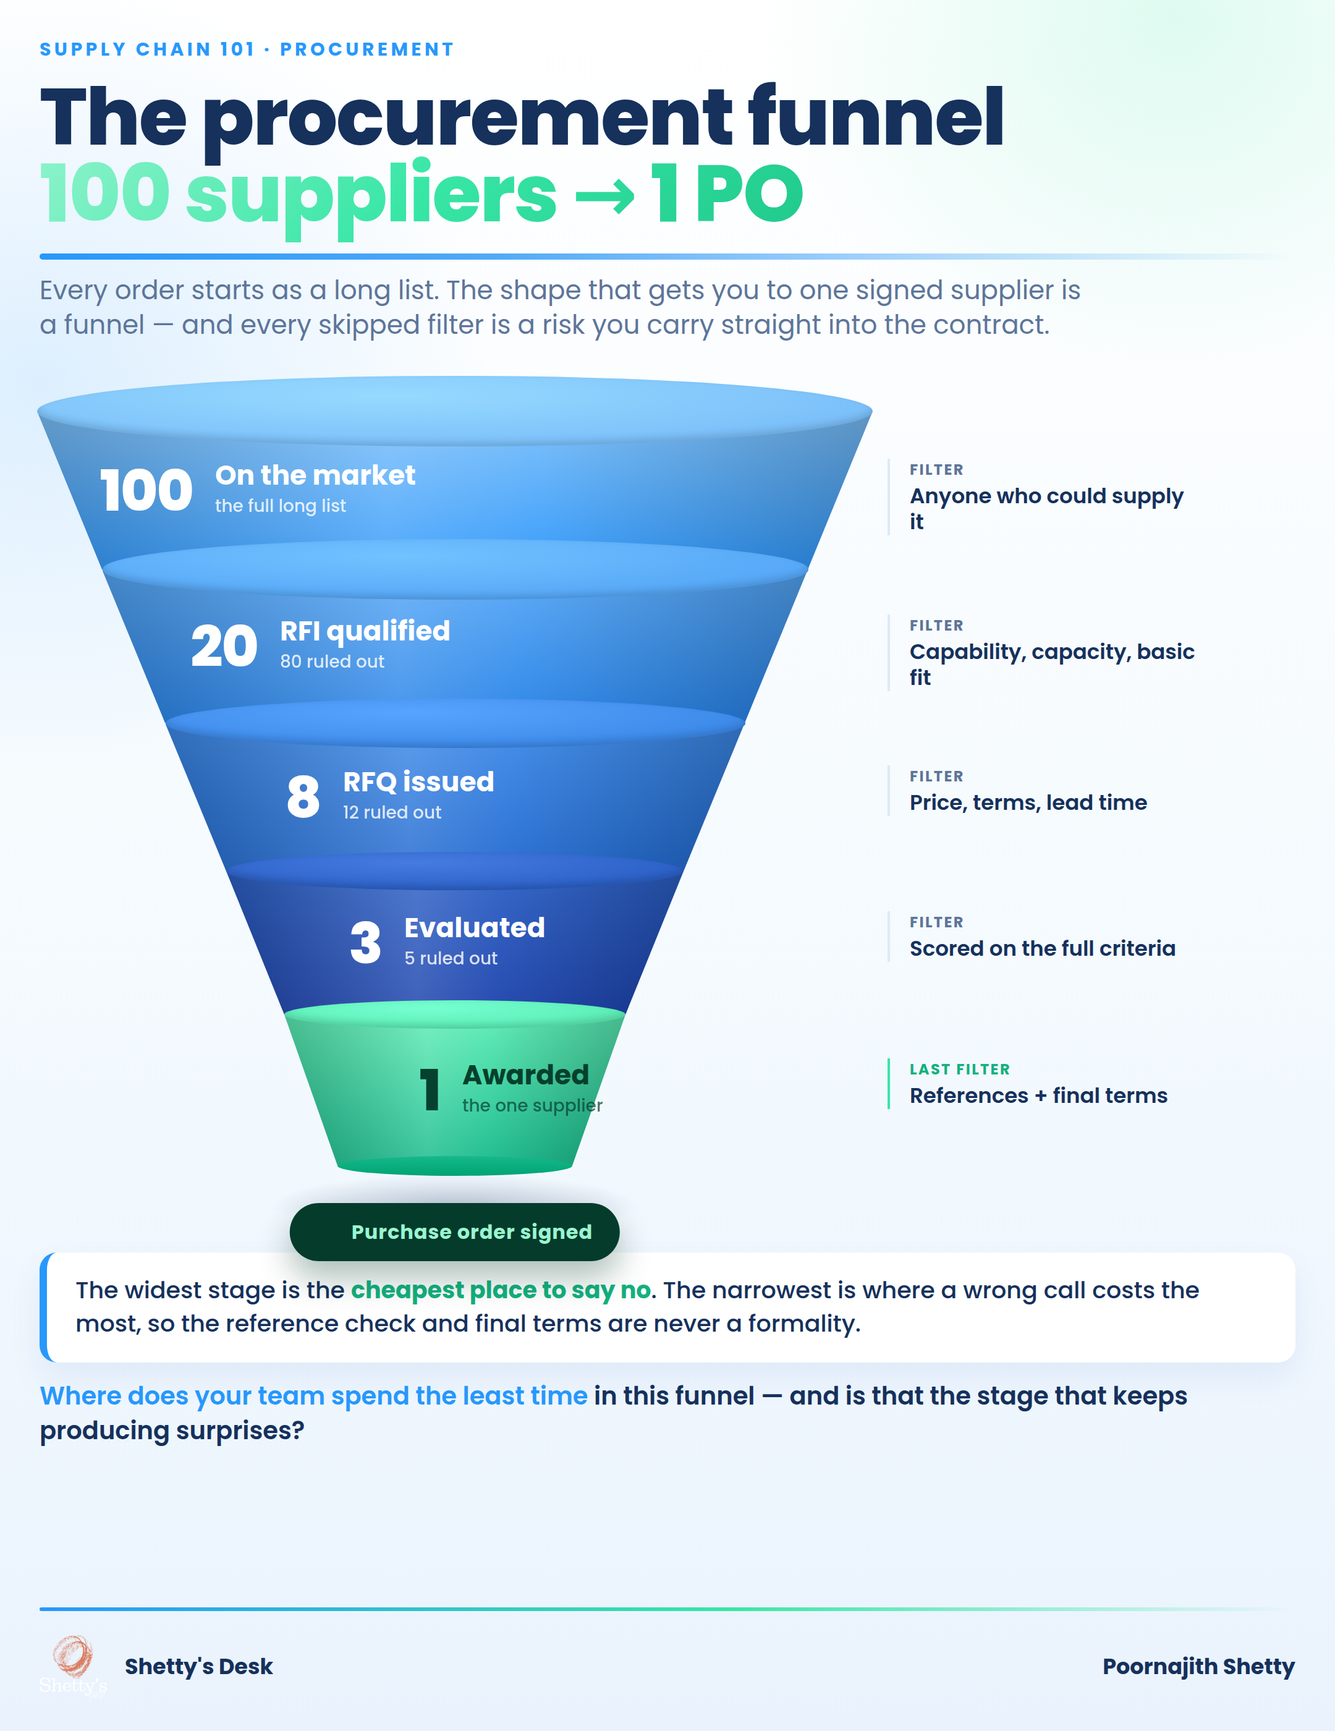
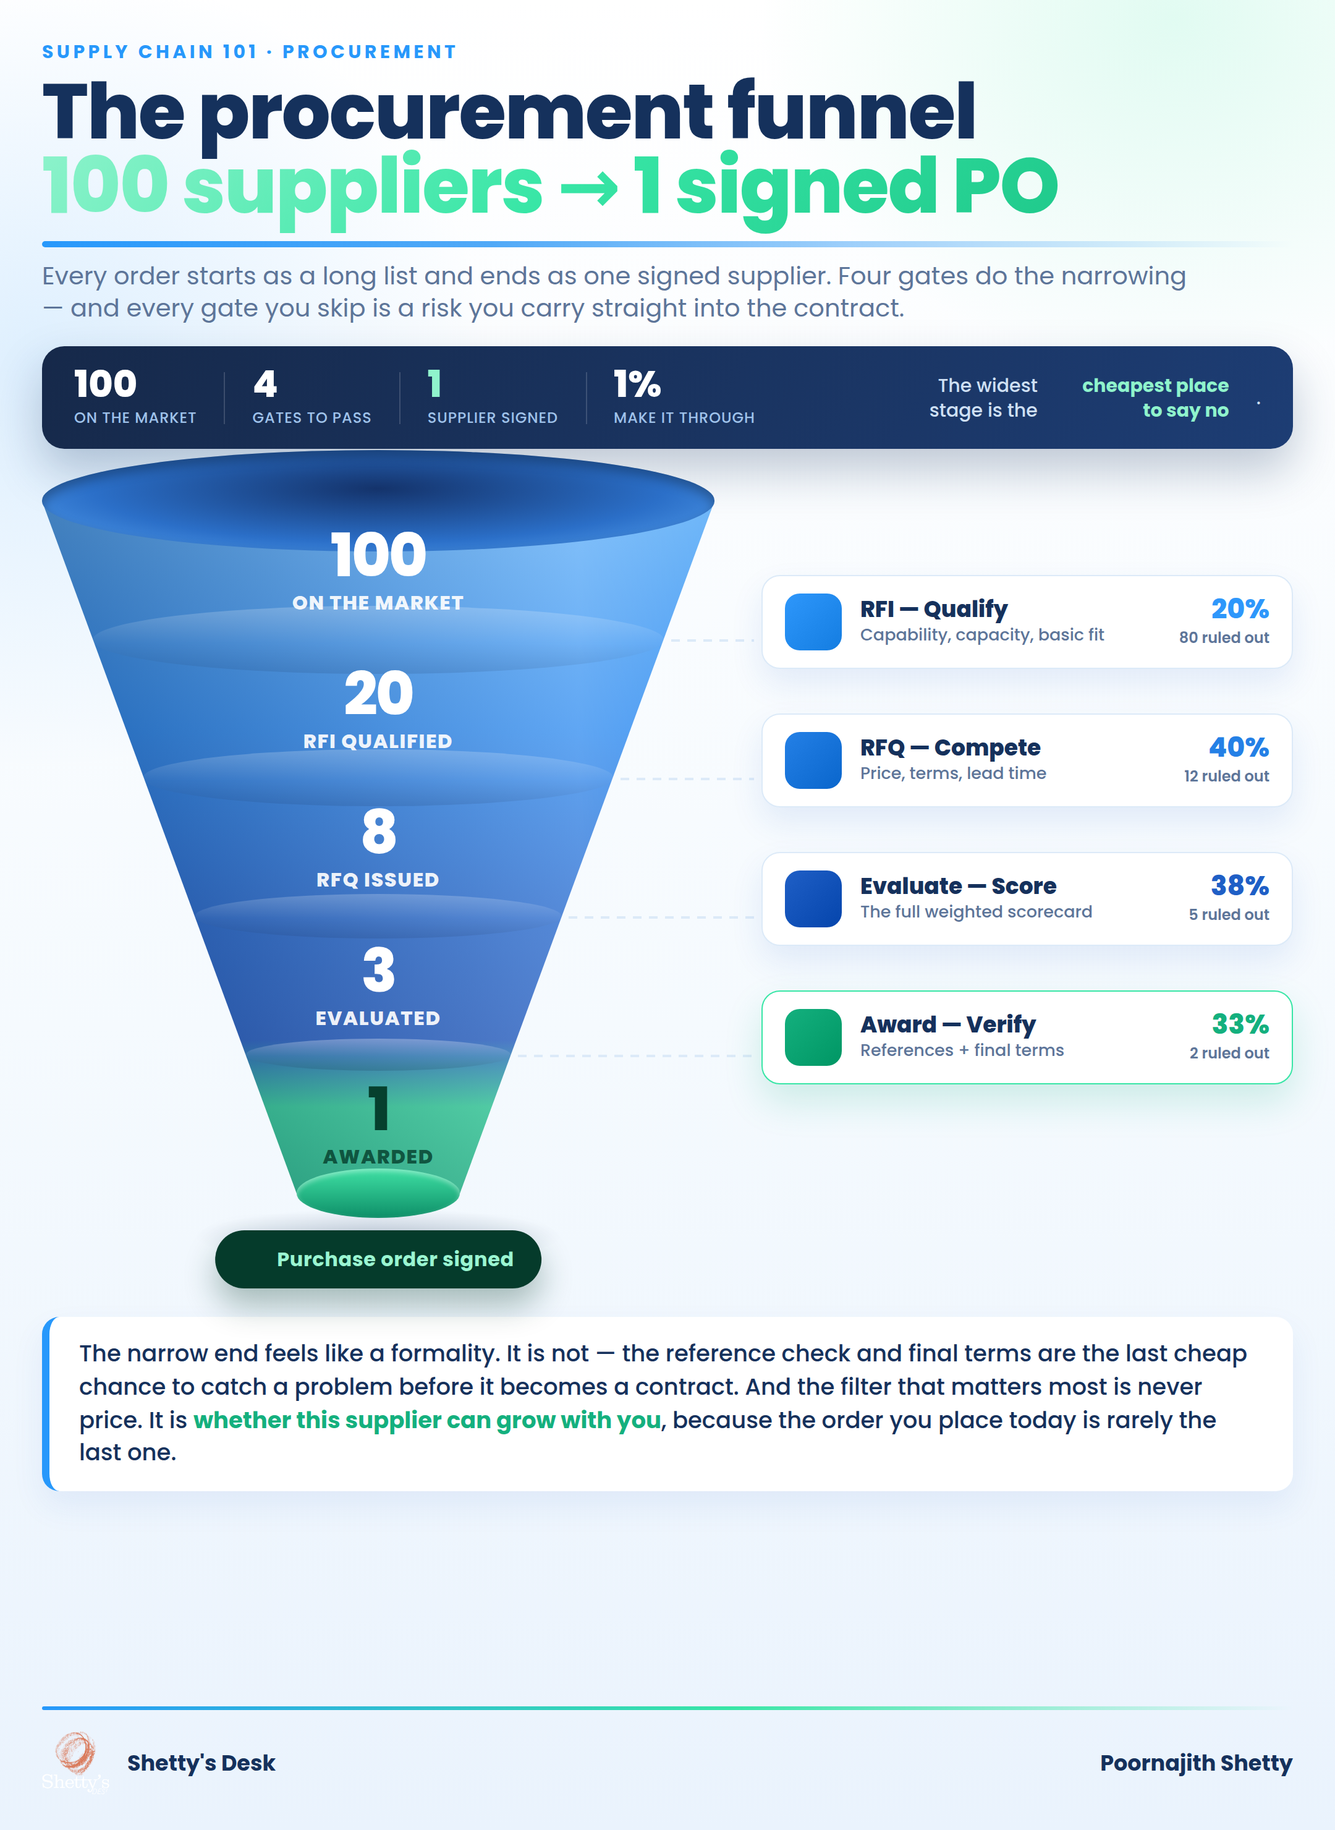
Rebuild 101 Post 2 (procurement funnel) to the 4-layer standard
The earlier pass was subpar — just footer + scaling of a weak template.
Full rebuild: a cohesive single-body 3D funnel (smooth taper, mouth +
eco tip + PO seal) as the hero, a dark stat band (100 / 4 gates / 1 / 1%),
four gate cards between the stages (what each filters + % advance + count
cut), centered number/name spine on the funnel, and the teaching insight.
Information-dense, genuinely 3D, fills the canvas — matched to the
supplier-quote exemplar.

Claude-Session: https://claude.ai/code/session_01QHwTCVSbkRhv54hCup5HwM

diff --git a/infographic-setup/renderer/templates/sc101-procurement-funnel-3d.html b/infographic-setup/renderer/templates/sc101-procurement-funnel-3d.html
@@ -13,65 +13,95 @@
   *{margin:0;padding:0;box-sizing:border-box}
   html,body{width:1080px}
   #card{
-    width:1080px;height:1400px;position:relative;overflow:hidden;
+    width:1080px;height:1480px;position:relative;overflow:hidden;
     font-family:"Poppins",system-ui,sans-serif;color:var(--ink);
     background:
-      radial-gradient(ellipse 52% 34% at 88% 1%, rgba(56,230,166,.16) 0%, transparent 60%),
-      radial-gradient(ellipse 58% 40% at 3% 22%, rgba(39,152,251,.14) 0%, transparent 58%),
-      linear-gradient(180deg,#FFFFFF 0%,#F4FAFE 56%,#EAF3FD 100%);
-    padding:28px 32px 24px;display:flex;flex-direction:column;
+      radial-gradient(ellipse 52% 32% at 88% 1%, rgba(56,230,166,.15) 0%, transparent 60%),
+      radial-gradient(ellipse 58% 38% at 3% 20%, rgba(39,152,251,.14) 0%, transparent 58%),
+      linear-gradient(180deg,#FFFFFF 0%,#F5FAFE 56%,#EAF3FD 100%);
+    padding:30px 34px 26px;display:flex;flex-direction:column;
   }
   .kicker{font-size:15px;font-weight:700;letter-spacing:.18em;text-transform:uppercase;color:var(--azure)}
-  h1{font-size:64px;font-weight:800;line-height:.97;margin-top:13px;letter-spacing:-1px;color:var(--ink)}
+  h1{font-size:62px;font-weight:800;line-height:.97;margin-top:8px;letter-spacing:-1px;color:var(--ink)}
   h1 .g{background:var(--eco-grad);-webkit-background-clip:text;background-clip:text;color:transparent}
-  .rule{height:5px;width:100%;margin:17px 0 11px;border-radius:5px;
+  .rule{height:5px;width:100%;margin:14px 0 10px;border-radius:5px;
     background:linear-gradient(90deg,var(--azure) 0%,var(--sky) 36%,rgba(80,169,247,0) 100%)}
-  .sub{font-size:21px;font-weight:400;color:var(--muted);max-width:860px;line-height:1.32}
+  .sub{font-size:20px;font-weight:400;color:var(--muted);max-width:940px;line-height:1.3}
 
-  /* funnel scene */
-  .scene{position:relative;width:1016px;height:716px;margin-top:14px}
-  .frustum{position:absolute;pointer-events:none}
-  .rim{position:absolute;border-radius:50%;pointer-events:none}
-  .lbl{position:absolute;pointer-events:none;display:flex;align-items:center;gap:18px;color:#fff}
-  .lbl .n{font-size:46px;font-weight:800;line-height:1;letter-spacing:-1px;min-width:96px;text-align:right}
-  .lbl .nm{font-size:22px;font-weight:700;line-height:1.12}
-  .lbl .dp{font-size:14px;font-weight:500;opacity:.9;margin-top:2px}
-  .rail{position:absolute;pointer-events:none;border-left:2px solid var(--line);padding-left:16px}
-  .rail .ft{font-size:12px;font-weight:700;letter-spacing:.1em;text-transform:uppercase;color:var(--muted)}
-  .rail .fv{font-size:17px;font-weight:600;color:var(--ink);line-height:1.25;margin-top:2px;max-width:235px}
-  .rail.win{border-left-color:var(--eco)} .rail.win .ft{color:var(--eco-text)}
-  .po{position:absolute;transform:translate(-50%,0);display:inline-flex;align-items:center;gap:9px;
-    background:#053b2b;color:#9af5d1;font-size:16px;font-weight:700;letter-spacing:.03em;padding:11px 22px;border-radius:999px;
+  /* stat band */
+  .band{margin-top:18px;background:linear-gradient(120deg,#16294a,#1d3d74);border-radius:18px;
+    padding:16px 26px;display:flex;align-items:center;gap:22px;box-shadow:0 18px 38px rgba(21,49,92,.26)}
+  .kpi{display:flex;flex-direction:column}
+  .kpi .n{font-size:30px;font-weight:800;color:#fff;line-height:1}
+  .kpi .n.e{color:var(--mint)}
+  .kpi .l{font-size:12px;font-weight:500;letter-spacing:.04em;color:#9FC2EA;margin-top:3px;text-transform:uppercase}
+  .band .sep{width:1px;height:42px;background:rgba(255,255,255,.16)}
+  .band .tagline{margin-left:auto;font-size:15px;font-weight:500;color:#CFE0F4;max-width:300px;line-height:1.32;text-align:right}
+  .band .tagline b{color:var(--mint);font-weight:700}
+
+  /* scene: funnel (left) + gate cards (right) */
+  .scene{position:relative;width:1012px;height:660px;margin-top:22px}
+  .shape{position:absolute;pointer-events:none}
+  .lab{position:absolute;pointer-events:none;text-align:center;transform:translateX(-50%)}
+  .lab .n{font-size:48px;font-weight:800;line-height:.88;letter-spacing:-1.5px}
+  .lab .nm{font-size:16px;font-weight:800;letter-spacing:.05em;text-transform:uppercase;margin-top:4px}
+  .seal{position:absolute;transform:translate(-50%,0);display:inline-flex;align-items:center;gap:9px;
+    background:#053b2b;color:#9af5d1;font-size:16px;font-weight:700;letter-spacing:.02em;padding:11px 22px;border-radius:999px;
     box-shadow:0 14px 26px rgba(5,59,43,.32)}
-  .po .ck{width:19px;height:19px;background:#38E6A6;-webkit-mask:url(../assets/icons/circle-check.svg) center/contain no-repeat;mask:url(../assets/icons/circle-check.svg) center/contain no-repeat}
+  .seal .ck{width:19px;height:19px;background:#38E6A6;-webkit-mask:url(../assets/icons/circle-check.svg) center/contain no-repeat;mask:url(../assets/icons/circle-check.svg) center/contain no-repeat}
 
-  .insight{margin-top:6px;background:#fff;border-left:6px solid var(--azure);border-radius:14px;
-    box-shadow:0 12px 26px rgba(33,93,195,.08);padding:17px 23px;font-size:19px;font-weight:500;color:var(--ink);line-height:1.46}
-  .insight b{color:var(--eco-text);font-weight:700}
-  .cta{margin-top:13px;font-size:20px;font-weight:600;color:var(--ink);line-height:1.4}
-  .cta .q{color:var(--azure)}
+  /* gate cards */
+  .gate{position:absolute;right:0;width:430px;background:#fff;border:1px solid var(--line);border-radius:15px;
+    box-shadow:0 12px 26px rgba(33,93,195,.10);padding:14px 18px;display:flex;align-items:center;gap:15px}
+  .gate .gi{width:46px;height:46px;flex:none;border-radius:12px;display:flex;align-items:center;justify-content:center}
+  .gate .gi i{width:25px;height:25px;background:#fff;-webkit-mask-size:contain;mask-size:contain;
+    -webkit-mask-repeat:no-repeat;mask-repeat:no-repeat;-webkit-mask-position:center;mask-position:center}
+  .gate .body{flex:1}
+  .gate .gt{font-size:18px;font-weight:800;color:var(--ink);line-height:1.05}
+  .gate .gf{font-size:13.5px;font-weight:500;color:var(--muted);line-height:1.28;margin-top:2px}
+  .gate .cut{flex:none;text-align:right;min-width:86px}
+  .gate .cut .pass{font-size:22px;font-weight:800;line-height:1}
+  .gate .cut .out{font-size:12px;font-weight:600;color:var(--muted);margin-top:3px}
+  .gate.win{border:1.5px solid var(--eco);box-shadow:0 14px 30px rgba(20,176,126,.18)}
+  /* connector dot on the funnel→gate line */
+  .conn{position:absolute;height:2px;background:repeating-linear-gradient(90deg,var(--line) 0 7px,transparent 7px 13px);pointer-events:none}
 
+  /* insight */
+  .insight{margin-top:20px;background:#fff;border-left:6px solid var(--azure);border-radius:14px;
+    box-shadow:0 12px 26px rgba(33,93,195,.08);padding:17px 24px;font-size:18.5px;font-weight:500;color:var(--ink);line-height:1.44}
+  .insight b{color:var(--eco-text);font-weight:700} .insight .px{color:var(--coral-deep);font-weight:700}
+
+  /* footer */
   .footrule{margin-top:auto;height:3px;border-radius:3px;
     background:linear-gradient(90deg,var(--azure),var(--eco) 55%,rgba(56,230,166,0) 100%)}
-  .foot{display:flex;align-items:center;justify-content:space-between;padding-top:18px}
+  .foot{display:flex;align-items:center;justify-content:space-between;padding-top:16px}
   .who{display:flex;align-items:center;gap:14px}
   .who img{width:55px;height:55px;border-radius:13px}
   .who .nm{font-size:17.5px;font-weight:700;color:var(--ink);line-height:1.15}
-  .who .hd{font-size:13.5px;font-weight:400;color:var(--muted)}
   .sig{font-size:17.5px;font-weight:700;color:var(--ink);text-align:right;line-height:1.2}
 </style>
 </head>
 <body>
 <div id="card">
   <div class="kicker">Supply Chain 101 · Procurement</div>
-  <h1>The procurement funnel<br><span class="g">100 suppliers → 1 PO</span></h1>
+  <h1>The procurement funnel<br><span class="g">100 suppliers → 1 signed PO</span></h1>
   <div class="rule"></div>
-  <div class="sub">Every order starts as a long list. The shape that gets you to one signed supplier is a funnel — and every skipped filter is a risk you carry straight into the contract.</div>
+  <div class="sub">Every order starts as a long list and ends as one signed supplier. Four gates do the narrowing — and every gate you skip is a risk you carry straight into the contract.</div>
+
+  <div class="band">
+    <div class="kpi"><span class="n">100</span><span class="l">on the market</span></div>
+    <div class="sep"></div>
+    <div class="kpi"><span class="n">4</span><span class="l">gates to pass</span></div>
+    <div class="sep"></div>
+    <div class="kpi"><span class="n e">1</span><span class="l">supplier signed</span></div>
+    <div class="sep"></div>
+    <div class="kpi"><span class="n">1%</span><span class="l">make it through</span></div>
+    <div class="band tagline" style="background:none;padding:0;box-shadow:none;margin-top:0">The widest stage is the <b>cheapest place to say no</b>.</div>
+  </div>
 
   <div class="scene" id="scene"></div>
 
-  <div class="insight">The widest stage is the <b>cheapest place to say no</b>. The narrowest is where a wrong call costs the most, so the reference check and final terms are never a formality.</div>
-  <div class="cta"><span class="q">Where does your team spend the least time</span> in this funnel — and is that the stage that keeps producing surprises?</div>
+  <div class="insight">The narrow end feels like a formality. It is not — the reference check and final terms are the last cheap chance to catch a problem before it becomes a contract. And the filter that matters most is never price. It is <b>whether this supplier can grow with you</b>, because the order you place today is rarely the last one.</div>
 
   <div class="footrule"></div>
   <div class="foot">
@@ -83,75 +113,104 @@
 <script>
 (function(){
   const scene=document.getElementById('scene');
-  const cxF=336;                 // funnel centre x
-  let y=42;                      // running top y
+  const SW=scene.clientWidth, SH=scene.clientHeight;
+  const cx=272;                 // funnel centre x
+  const Wtop=544, Wtip=132;     // funnel mouth / tip widths
+  const top=20, H=560;          // funnel body top y + height
+  const bot=top+H;
+  const wAt=y=>Wtop+(Wtip-Wtop)*((y-top)/H);
+
+  // stage zones (5) — count + name shown ON the funnel
   const stages=[
-    {n:'100', nm:'On the market', dp:'the full long list',  wt:676, wb:571, h:128, c:['#7CC0FA','#2E97FB'], ft:'Filter', fv:'Anyone who could supply it'},
-    {n:'20',  nm:'RFI qualified', dp:'80 ruled out',        wt:571, wb:469, h:124, c:['#57A8F7','#2480E6'], ft:'Filter', fv:'Capability, capacity, basic fit'},
-    {n:'8',   nm:'RFQ issued',    dp:'12 ruled out',        wt:469, wb:370, h:120, c:['#3D8AE9','#2068CE'], ft:'Filter', fv:'Price, terms, lead time'},
-    {n:'3',   nm:'Evaluated',     dp:'5 ruled out',         wt:370, wb:276, h:116, c:['#2C61C7','#1A40AA'], ft:'Filter', fv:'Scored on the full criteria'},
-    {n:'1',   nm:'Awarded',       dp:'the one supplier',    wt:276, wb:190, h:122, c:['#5CEDB6','#16B98A'], ft:'Last filter', fv:'References + final terms', eco:true},
+    {n:'100', nm:'On the market', dp:'the full long list', icon:'blocks'},
+    {n:'20',  nm:'RFI qualified', dp:'capability checked', icon:'circle-check'},
+    {n:'8',   nm:'RFQ issued',    dp:'quotes requested',   icon:'tag'},
+    {n:'3',   nm:'Evaluated',     dp:'scored on criteria', icon:'chart-line'},
+    {n:'1',   nm:'Awarded',       dp:'the one supplier',   icon:'trophy', eco:true},
+  ];
+  const zoneH=H/5;
+
+  // gates (4) — the filter between each pair of stages
+  const gates=[
+    {t:'RFI — Qualify', f:'Capability, capacity, basic fit', pass:'20%', out:'80 ruled out', c:'#2E97FB', icon:'circle-check'},
+    {t:'RFQ — Compete', f:'Price, terms, lead time', pass:'40%', out:'12 ruled out', c:'#2480E6', icon:'tag'},
+    {t:'Evaluate — Score', f:'The full weighted scorecard', pass:'38%', out:'5 ruled out', c:'#1F5FC6', icon:'chart-line'},
+    {t:'Award — Verify', f:'References + final terms', pass:'33%', out:'2 ruled out', c:'#14B07E', icon:'shield-check', win:true},
   ];
 
-  function el(cls){const d=document.createElement('div');d.className=cls;scene.appendChild(d);return d;}
+  function add(cls){const d=document.createElement('div');d.className=cls;scene.appendChild(d);return d;}
 
-  // soft cast shadow under the whole funnel
-  const cast=el('frustum');
-  cast.style.left=(cxF-150)+'px'; cast.style.top=(y+stages.reduce((s,x)=>s+x.h,0)+6)+'px';
-  cast.style.width='300px'; cast.style.height='52px'; cast.style.borderRadius='50%';
-  cast.style.background='radial-gradient(ellipse at center, rgba(15,40,90,.22), rgba(15,40,90,0) 70%)';
+  // cast shadow under the tip
+  const cast=add('shape');
+  cast.style.left=(cx-150)+'px'; cast.style.top=(bot+12)+'px'; cast.style.width='300px'; cast.style.height='46px';
+  cast.style.borderRadius='50%'; cast.style.background='radial-gradient(ellipse at center, rgba(15,40,90,.20), rgba(15,40,90,0) 70%)';
 
+  // funnel body (single tapered solid)
+  const body=add('shape');
+  body.style.left='0'; body.style.top='0'; body.style.width=SW+'px'; body.style.height=(bot+20)+'px';
+  body.style.clipPath='polygon('+(cx-Wtop/2)+'px '+top+'px, '+(cx+Wtop/2)+'px '+top+'px, '+(cx+Wtip/2)+'px '+bot+'px, '+(cx-Wtip/2)+'px '+bot+'px)';
+  body.style.background=
+    'linear-gradient(90deg, rgba(8,24,55,.30) 0%, rgba(255,255,255,.24) 43%, rgba(255,255,255,.04) 61%, rgba(8,24,55,.32) 100%),'+
+    'linear-gradient(180deg,#62B2F9 0%,#2E8BF0 34%,#2266CD 60%,#1E59C0 76%,#27C892 85%,#13AE7D 100%)';
+  body.style.filter='drop-shadow(0 10px 16px rgba(15,45,100,.18))';
+
+  // top mouth ellipse (the opening — darker interior implies depth)
+  const mouthH=Wtop*0.15;
+  const mouth=add('shape');
+  mouth.style.left=(cx-Wtop/2)+'px'; mouth.style.top=(top-mouthH/2)+'px'; mouth.style.width=Wtop+'px'; mouth.style.height=mouthH+'px';
+  mouth.style.borderRadius='50%';
+  mouth.style.background='radial-gradient(ellipse at 50% 38%, #14336b 0%, #2b6fc8 60%, #5aa6f3 100%)';
+  mouth.style.boxShadow='inset 0 5px 9px rgba(0,0,0,.30)';
+
+  // stage rim lines at each interior boundary (subtle steps)
+  for(let i=1;i<5;i++){
+    const y=top+i*zoneH, w=wAt(y), rh=w*0.12;
+    const rim=add('shape');
+    rim.style.left=(cx-w/2)+'px'; rim.style.top=(y-rh/2)+'px'; rim.style.width=w+'px'; rim.style.height=rh+'px';
+    rim.style.borderRadius='50%';
+    rim.style.background='linear-gradient(180deg, rgba(255,255,255,.34), rgba(255,255,255,.04) 55%, rgba(8,24,55,.18))';
+    rim.style.opacity=i===4?'.9':'.65';
+  }
+
+  // eco tip cap
+  const tipW=Wtip, tipH=tipW*0.30;
+  const tip=add('shape');
+  tip.style.left=(cx-tipW/2)+'px'; tip.style.top=(bot-tipH/2)+'px'; tip.style.width=tipW+'px'; tip.style.height=tipH+'px';
+  tip.style.borderRadius='50%'; tip.style.background='linear-gradient(180deg,#3FE0A4,#0E8F68)';
+  tip.style.boxShadow='inset 0 2px 4px rgba(255,255,255,.4)';
+
+  // stage labels on the funnel — centered number + name spine
   stages.forEach((s,i)=>{
-    const rimH=Math.max(20, s.wt*0.085);
-    // body (tapered trapezoid) with cylinder-style shading
-    const body=el('frustum');
-    body.style.left=(cxF - s.wt/2)+'px'; body.style.top=y+'px';
-    body.style.width=s.wt+'px'; body.style.height=s.h+'px';
-    const insL=(50 - 50*s.wb/s.wt).toFixed(2), insR=(50 + 50*s.wb/s.wt).toFixed(2);
-    body.style.clipPath='polygon(0 0, 100% 0, '+insR+'% 100%, '+insL+'% 100%)';
-    body.style.background=
-      'linear-gradient(90deg, rgba(0,0,0,.20) 0%, rgba(255,255,255,.16) 42%, rgba(255,255,255,.05) 60%, rgba(0,0,0,.22) 100%),'+
-      'linear-gradient(180deg,'+s.c[0]+','+s.c[1]+')';
-    body.style.filter='drop-shadow(0 6px 7px rgba(15,45,100,.16))';
-
-    // top rim ellipse (the 3D opening) — lighter
-    const rim=el('rim');
-    rim.style.left=(cxF - s.wt/2)+'px'; rim.style.top=(y - rimH/2)+'px';
-    rim.style.width=s.wt+'px'; rim.style.height=rimH+'px';
-    rim.style.background='radial-gradient(ellipse at 42% 28%, '+lighten(s.c[0],26)+', '+s.c[0]+' 72%)';
-    rim.style.boxShadow='inset 0 -3px 6px rgba(0,0,0,.14)';
-
-    // bottom cap for the last (closed tip)
-    if(s.eco){
-      const cap=el('rim');
-      cap.style.left=(cxF - s.wb/2)+'px'; cap.style.top=(y + s.h - rimH*0.5*s.wb/s.wt)+'px';
-      cap.style.width=s.wb+'px'; cap.style.height=(rimH*s.wb/s.wt)+'px';
-      cap.style.background='linear-gradient(180deg,'+s.c[1]+','+lighten(s.c[1],-22)+')';
-      cap.style.zIndex=1;
-    }
-
-    // label (number + name) over the body
-    const lab=el('lbl');
-    lab.style.left=(cxF - s.wt/2 + 30)+'px'; lab.style.top=y+'px'; lab.style.height=s.h+'px';
-    const nCol = s.eco ? '#06402E' : '#fff';
-    const dCol = s.eco ? 'rgba(6,64,46,.78)' : 'rgba(255,255,255,.9)';
-    lab.innerHTML='<span class="n" style="color:'+nCol+'">'+s.n+'</span>'+
-      '<div><div class="nm" style="color:'+nCol+'">'+s.nm+'</div><div class="dp" style="color:'+dCol+'">'+s.dp+'</div></div>';
-
-    // rail (filter) on the right, aligned to stage centre
-    const rail=el('rail'+(s.eco?' win':''));
-    rail.style.left=(cxF + 350)+'px'; rail.style.top=(y + s.h/2 - 26)+'px'; rail.style.width='252px';
-    rail.innerHTML='<div class="ft">'+s.ft+'</div><div class="fv">'+s.fv+'</div>';
-
-    y += s.h;
+    const yc=top+i*zoneH+zoneH/2;
+    const lab=add('lab');
+    lab.style.left=cx+'px'; lab.style.top=(yc-32)+'px';
+    const nc = s.eco ? '#06402E' : '#fff';
+    const dc = s.eco ? 'rgba(6,64,46,.82)' : 'rgba(255,255,255,.92)';
+    lab.innerHTML='<div class="n" style="color:'+nc+'">'+s.n+'</div><div class="nm" style="color:'+dc+'">'+s.nm+'</div>';
   });
 
-  // PO pill under the tip
-  const po=el('po');
-  po.style.left=cxF+'px'; po.style.top=(y+30)+'px';
-  po.innerHTML='<span class="ck"></span>Purchase order signed';
+  // PO seal under the tip
+  const seal=add('seal'); seal.style.left=cx+'px'; seal.style.top=(bot+30)+'px';
+  seal.innerHTML='<span class="ck"></span>Purchase order signed';
 
-  function lighten(hex,amt){const n=parseInt(hex.slice(1),16);let r=(n>>16)+amt,g=((n>>8)&255)+amt,b=(n&255)+amt;
+  // gate cards on the right, positioned at each stage boundary
+  const cardH=104;
+  gates.forEach((g,i)=>{
+    const y=top+(i+1)*zoneH;            // boundary between stage i and i+1
+    const cardTop=Math.round(y-cardH/2);
+    // connector from funnel edge to the card
+    const edge=cx+wAt(y)/2;
+    const conn=add('conn');
+    conn.style.left=(edge+6)+'px'; conn.style.top=(y)+'px'; conn.style.width=(SW-430-edge-12)+'px';
+    const card=add('gate'+(g.win?' win':''));
+    card.style.top=cardTop+'px';
+    card.innerHTML=
+      '<span class="gi" style="background:linear-gradient(135deg,'+g.c+','+shade(g.c,-26)+')"><i style="-webkit-mask:url(../assets/icons/'+g.icon+'.svg) center/contain no-repeat;mask:url(../assets/icons/'+g.icon+'.svg) center/contain no-repeat"></i></span>'+
+      '<div class="body"><div class="gt">'+g.t+'</div><div class="gf">'+g.f+'</div></div>'+
+      '<div class="cut"><div class="pass" style="color:'+(g.win?'var(--eco-text)':g.c)+'">'+g.pass+'</div><div class="out">'+g.out+'</div></div>';
+  });
+
+  function shade(hex,amt){const n=parseInt(hex.slice(1),16);let r=(n>>16)+amt,g=((n>>8)&255)+amt,b=(n&255)+amt;
     r=Math.max(0,Math.min(255,r));g=Math.max(0,Math.min(255,g));b=Math.max(0,Math.min(255,b));
     return '#'+((1<<24)+(r<<16)+(g<<8)+b).toString(16).slice(1);}
 })();
